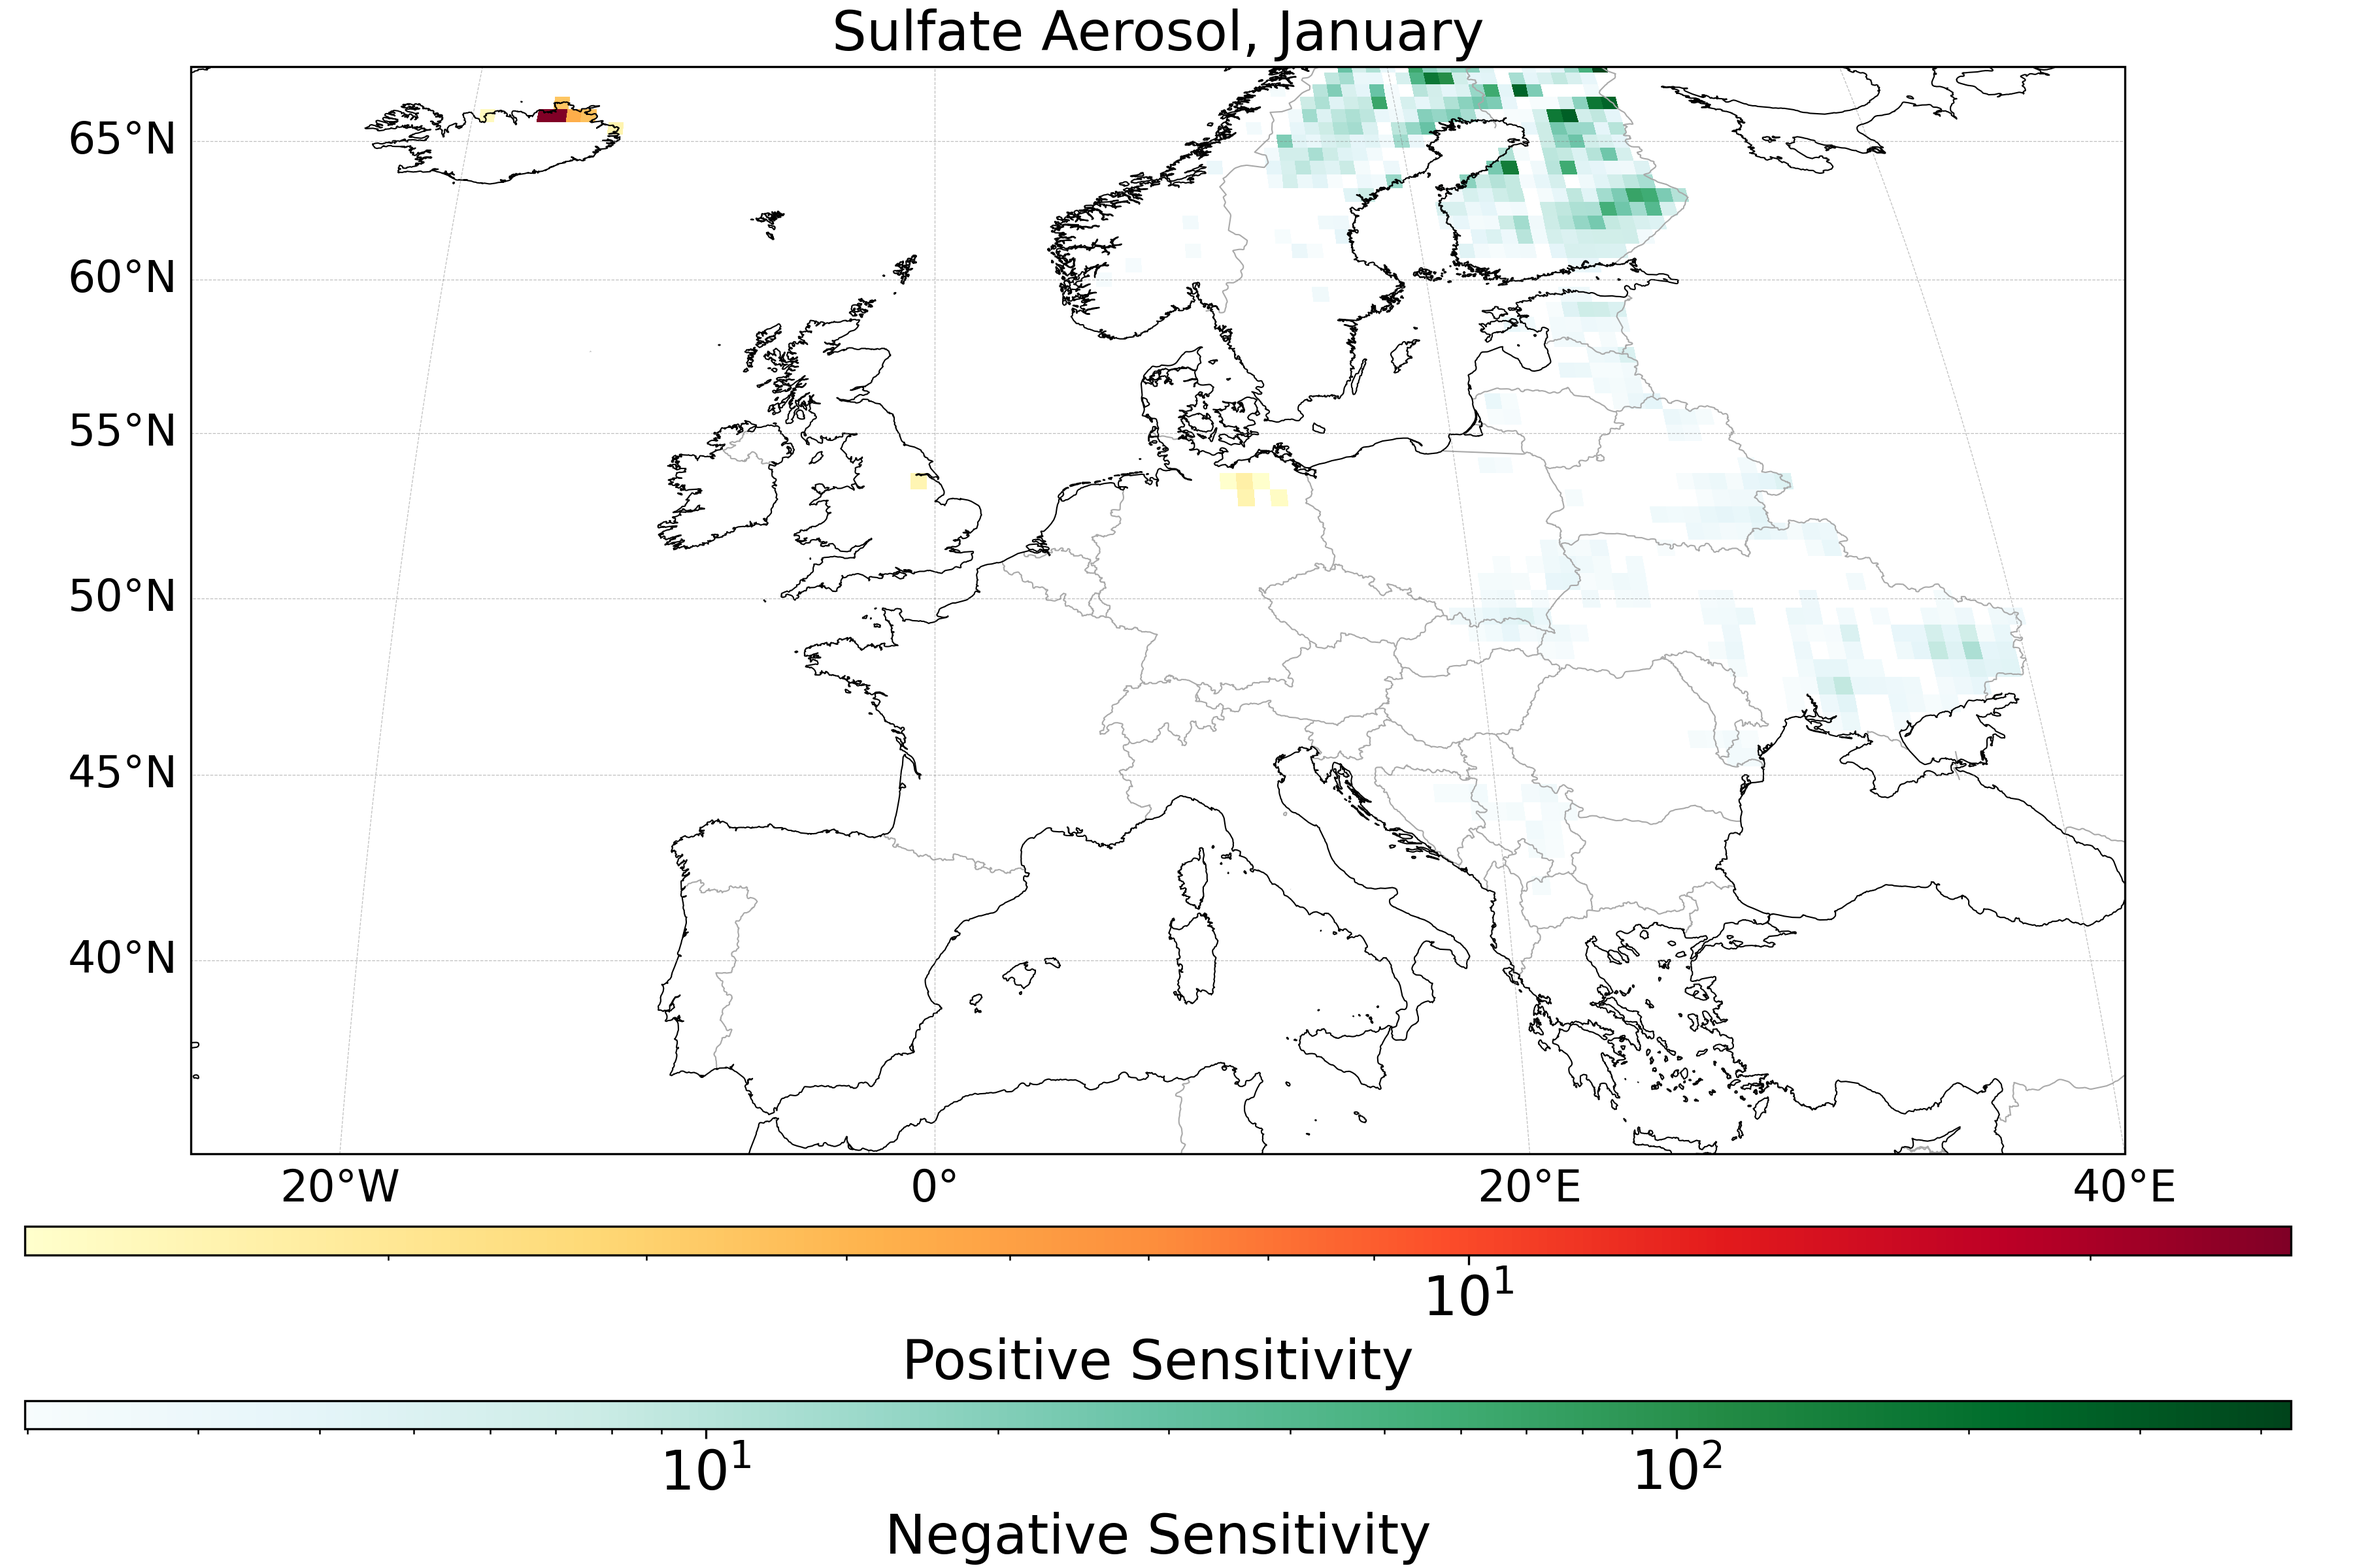
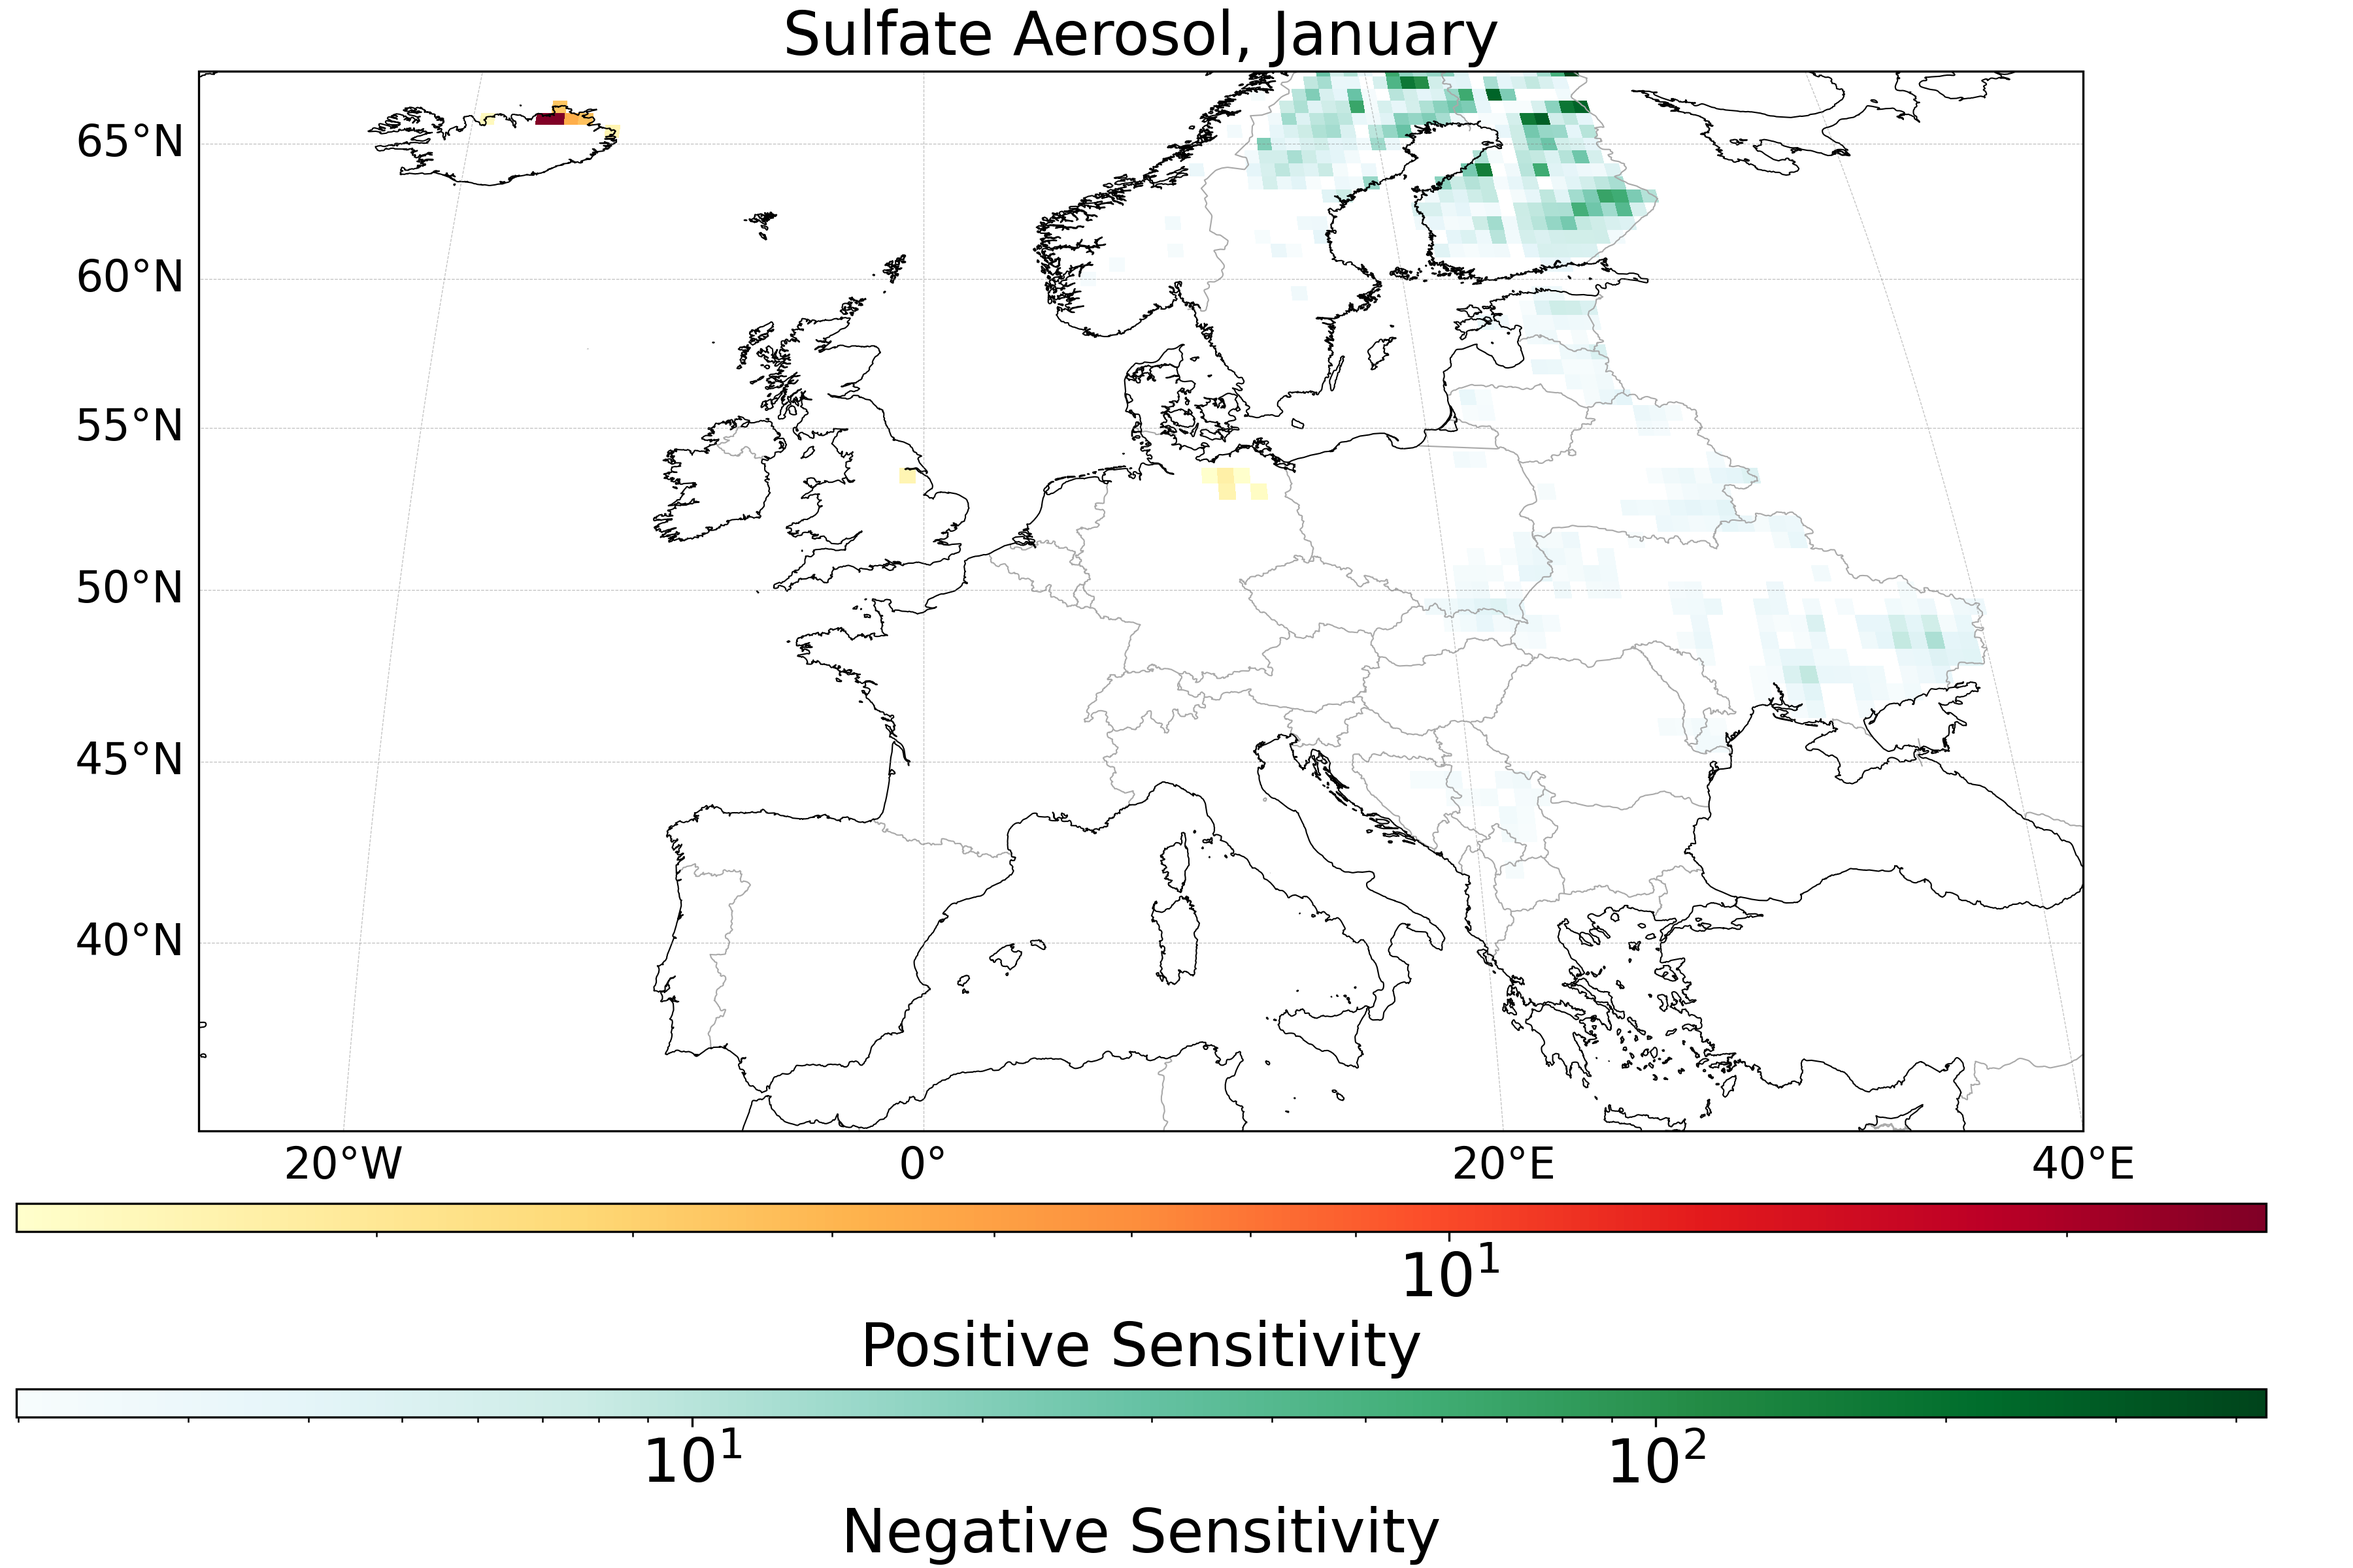
bigger font

diff --git a/division_processing/sensitivity_log_europe.py b/division_processing/sensitivity_log_europe.py
@@ -15,7 +15,7 @@ from matplotlib.patches import Rectangle
 
 #FONT
 font = {'family' : 'DejaVu Sans',
-        'size'   : 20}
+        'size'   : 22}
 
 matplotlib.rc('font', **font)
 
@@ -181,7 +181,9 @@ for type_, vars in types.items():
 
         for m, month in enumerate(months):
             pollutant = differencer(type_, month, var) * unit * area["AREA"] * 128
+            print(np.nanmin(area["AREA"].values))
             sum_emittants = adder(emissions, emittants)
+            # print(np.any(emittants==0))
 
             measure = pollutant / sum_emittants
 
@@ -286,7 +288,7 @@ for type_, vars in types.items():
 
             # ax[i].set_title(f"{var}, {month}", fontsize=14)
             # plt.tight_layout()
-            ax.set_title(f"{name}, {monthname[m]}", fontsize=20)
+            ax.set_title(f"{name}, {monthname[m]}", fontsize=22)
             if percentile > 0:
                 ifpercen = "_top" + str(100 - percentile)
             else:
